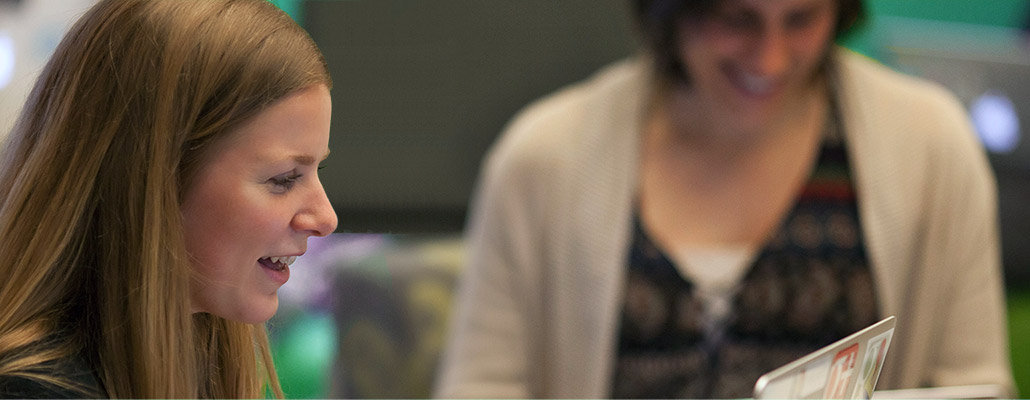
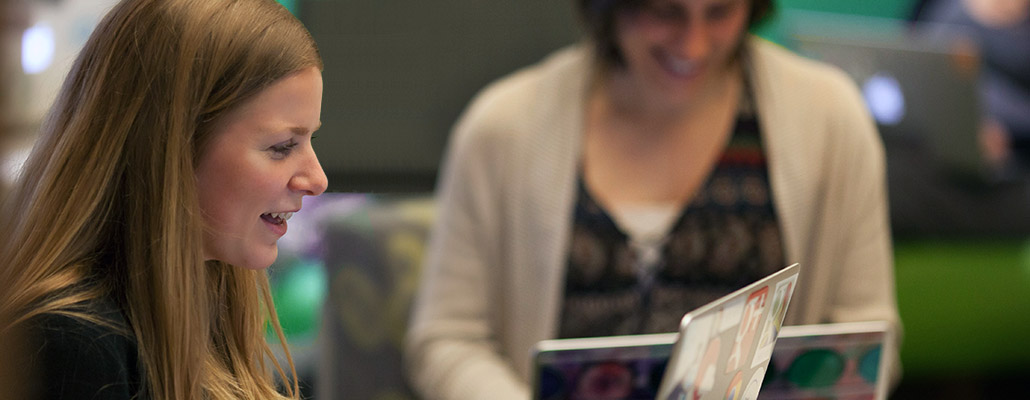
Dark and light headers.

diff --git a/css/style.css b/css/style.css
@@ -173,7 +173,7 @@ button {
 
 /* line 1, sass/_layers.sass */
 .bg-photo {
-  background-image: url('../img/header-1.jpg?1391628845');
+  background-image: url('../img/header-1.jpg?1391632555');
   background-position: center;
   background-size: cover;
   position: absolute;
@@ -187,15 +187,15 @@ button {
     /* line 1, sass/_layers.sass */
     .bg-photo {
       background-size: auto;
-      background-image: url('../img/header-1-large.jpg?1391628907'); } }
+      background-image: url('../img/header-1-large.jpg?1391632694'); } }
   @media screen and (max-width: 1024px) {
     /* line 1, sass/_layers.sass */
     .bg-photo {
-      background-image: url('../img/header-1-medium.jpg?1391628942'); } }
+      background-image: url('../img/header-1-medium.jpg?1391632784'); } }
   @media screen and (max-width: 640px) {
     /* line 1, sass/_layers.sass */
     .bg-photo {
-      background-image: url('../img/header-1-small.jpg?1391628988'); } }
+      background-image: url('../img/header-1-small.jpg?1391632848'); } }
 
 /* line 7, sass/_layers.sass */
 .pattern-header {
@@ -250,11 +250,10 @@ button {
     max-width: 627px; }
   /* line 12, sass/_header.sass */
   .page-header h2 {
-    color: white;
     font-size: 30px;
     font-style: italic;
     margin-top: 18px; }
-  /* line 18, sass/_header.sass */
+  /* line 17, sass/_header.sass */
   .page-header .events-jumper {
     background: url('../img/find-events-button.png?1391562680') top no-repeat;
     background-size: 193px;
@@ -264,91 +263,102 @@ button {
     padding: 19.2px 0 0 0;
     width: 193px;
     height: 76px; }
-  /* line 30, sass/_header.sass */
+  /* line 27, sass/_header.sass */
   .page-header .google-logo {
     position: fixed;
     left: 50%;
-    margin-left: -467.5px;
-    width: 75px;
+    margin-left: -468px;
+    width: 75px; }
+  /* line 37, sass/_header.sass */
+  .page-header.dark h2 {
+    color: white; }
+  /* line 40, sass/_header.sass */
+  .page-header.dark .google-logo {
     opacity: 0.5; }
+  /* line 44, sass/_header.sass */
+  .page-header.light h2 {
+    color: #999999; }
+  /* line 47, sass/_header.sass */
+  .page-header.light .google-logo {
+    opacity: 1; }
 
-/* line 52, sass/_header.sass */
+/* line 64, sass/_header.sass */
 .page-header {
   height: 800px; }
 
-/* line 55, sass/_header.sass */
+/* line 67, sass/_header.sass */
 .google-logo {
   top: 765px; }
 
-/* line 58, sass/_header.sass */
+/* line 70, sass/_header.sass */
 .bg-photo {
   height: 850px; }
 
-/* line 61, sass/_header.sass */
+/* line 73, sass/_header.sass */
 .page-header {
   padding-top: 144px; }
-  /* line 64, sass/_header.sass */
+  /* line 76, sass/_header.sass */
   .page-header .events-jumper {
     margin-top: 144px; }
 
 @media screen and (max-width: 1600px) {
-  /* line 69, sass/_header.sass */
+  /* line 81, sass/_header.sass */
   .page-header {
     height: 550px; }
 
-  /* line 72, sass/_header.sass */
+  /* line 84, sass/_header.sass */
   .google-logo {
     top: 515px; }
 
-  /* line 75, sass/_header.sass */
+  /* line 87, sass/_header.sass */
   .bg-photo {
     height: 600px; }
 
-  /* line 78, sass/_header.sass */
+  /* line 90, sass/_header.sass */
   .page-header {
     padding-top: 96px; }
-    /* line 81, sass/_header.sass */
+    /* line 93, sass/_header.sass */
     .page-header .events-jumper {
       margin-top: 96px; } }
 @media screen and (max-width: 1024px) {
-  /* line 86, sass/_header.sass */
+  /* line 98, sass/_header.sass */
   .page-header {
     height: 350px; }
 
-  /* line 89, sass/_header.sass */
+  /* line 101, sass/_header.sass */
   .google-logo {
     top: 315px; }
 
-  /* line 92, sass/_header.sass */
+  /* line 104, sass/_header.sass */
   .bg-photo {
     height: 400px; }
 
-  /* line 95, sass/_header.sass */
+  /* line 107, sass/_header.sass */
   .page-header {
     padding-top: 48px; }
-    /* line 98, sass/_header.sass */
+    /* line 110, sass/_header.sass */
     .page-header .events-jumper {
       margin-top: 6px; } }
 @media screen and (max-width: 640px) {
-  /* line 103, sass/_header.sass */
+  /* line 115, sass/_header.sass */
   .page-header {
     height: 250px; }
 
-  /* line 106, sass/_header.sass */
+  /* line 118, sass/_header.sass */
   .google-logo {
     top: 215px; }
 
-  /* line 109, sass/_header.sass */
+  /* line 121, sass/_header.sass */
   .bg-photo {
     height: 300px; }
 
-  /* line 112, sass/_header.sass */
+  /* line 124, sass/_header.sass */
   .page-header {
     padding-top: 12px; }
-    /* line 115, sass/_header.sass */
+    /* line 127, sass/_header.sass */
     .page-header h2 {
       font-size: 20px; }
-    /* line 118, sass/_header.sass */
+    /* line 130, sass/_header.sass */
     .page-header .events-jumper {
       margin-top: 4.8px; } }
 /* line 1, sass/_nav.sass */

diff --git a/css/sass/_header.sass b/css/sass/_header.sass
@@ -10,7 +10,6 @@
       max-width: 627px
 
   h2
-    color: white
     font-size: 30px
     font-style: italic
     margin-top: $line*.75
@@ -25,15 +24,28 @@
     width: 193px
     height: 76px
 
-  $google-logo-size: 75px
-
   .google-logo
     position: fixed
     left: 50%
     // position from top is determined by height of header; see responsive rules below
-    margin-left: -($container/2 - $google-logo-size/6)
-    width: $google-logo-size
-    opacity: .5
+    margin-left: -($container/2 - 12px)
+    width: 75px
+
+  // Dark and light header images.
+
+  &.dark
+    h2
+      color: white
+
+    .google-logo
+      opacity: .5
+
+  &.light
+    h2
+      color: $color-gray
+
+    .google-logo
+      opacity: 1
 
 
 // Header heights.

diff --git a/index.html b/index.html
@@ -17,13 +17,13 @@
 
 <body>
 
-<header class="page-header" id="home">
+<header class="page-header dark" id="home">
   <div class="pattern-header"></div>
   <img class="google-logo" format="svg png" ocu-src="img/google-logo" alt="Sponsored by Google">
 
   <div class="container">
     <h1 class="site-title">
-      <img format="svg png" ocu-src="img/logo-lockup-white" alt="Women Techmakers">
+      <img format="svg png" ocu-src="img/logo-lockup-gray" alt="Women Techmakers">
     </h1>
     <h2>Engineering the Future</h2>
     <a class="events-jumper" href="#events" ocu-scroll-click>Register for an Event</a>
